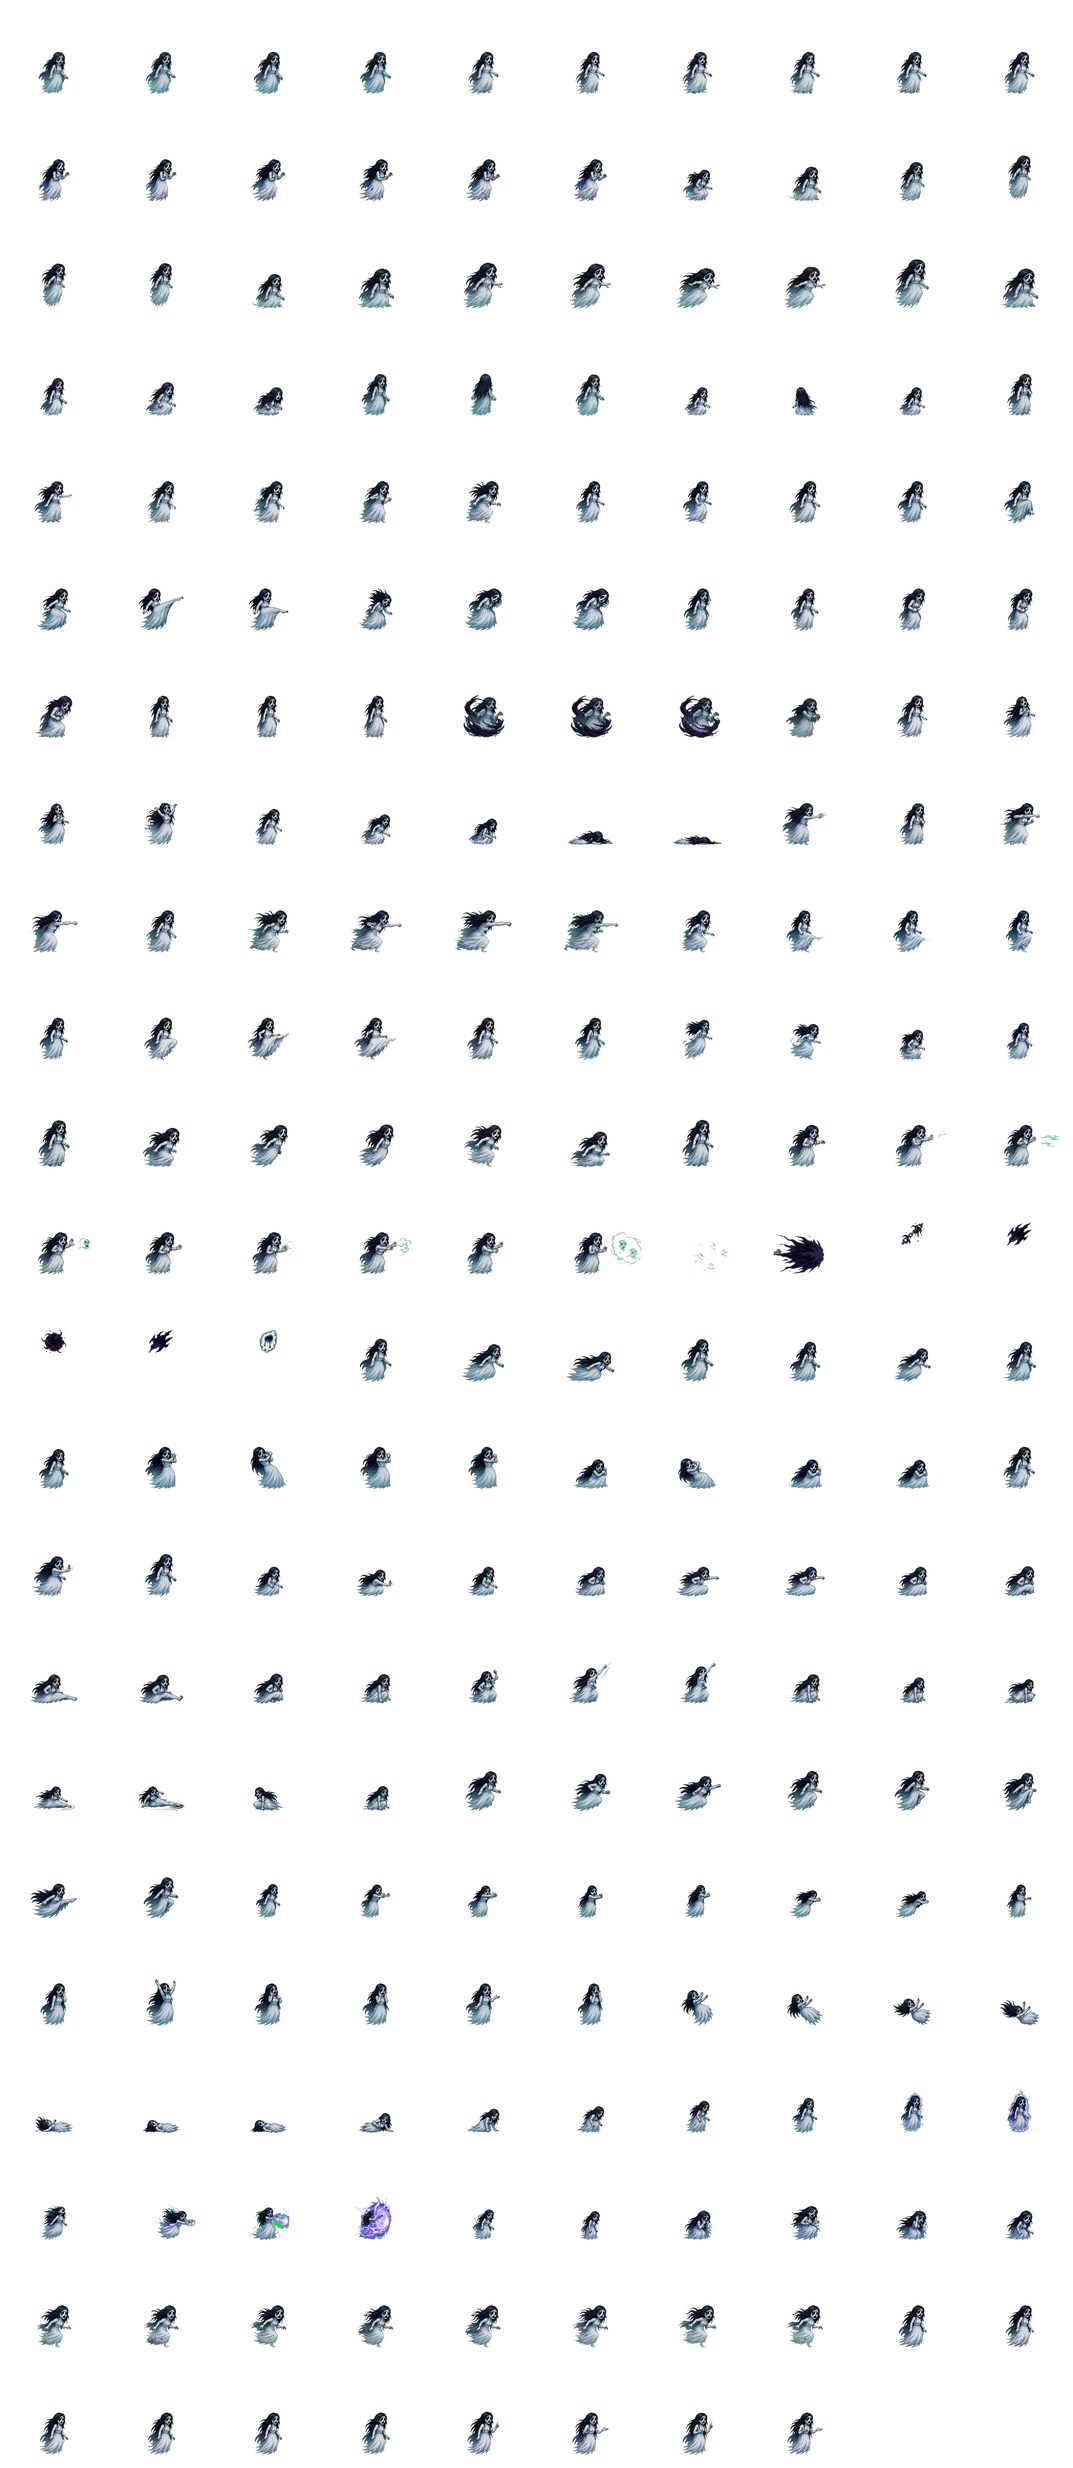
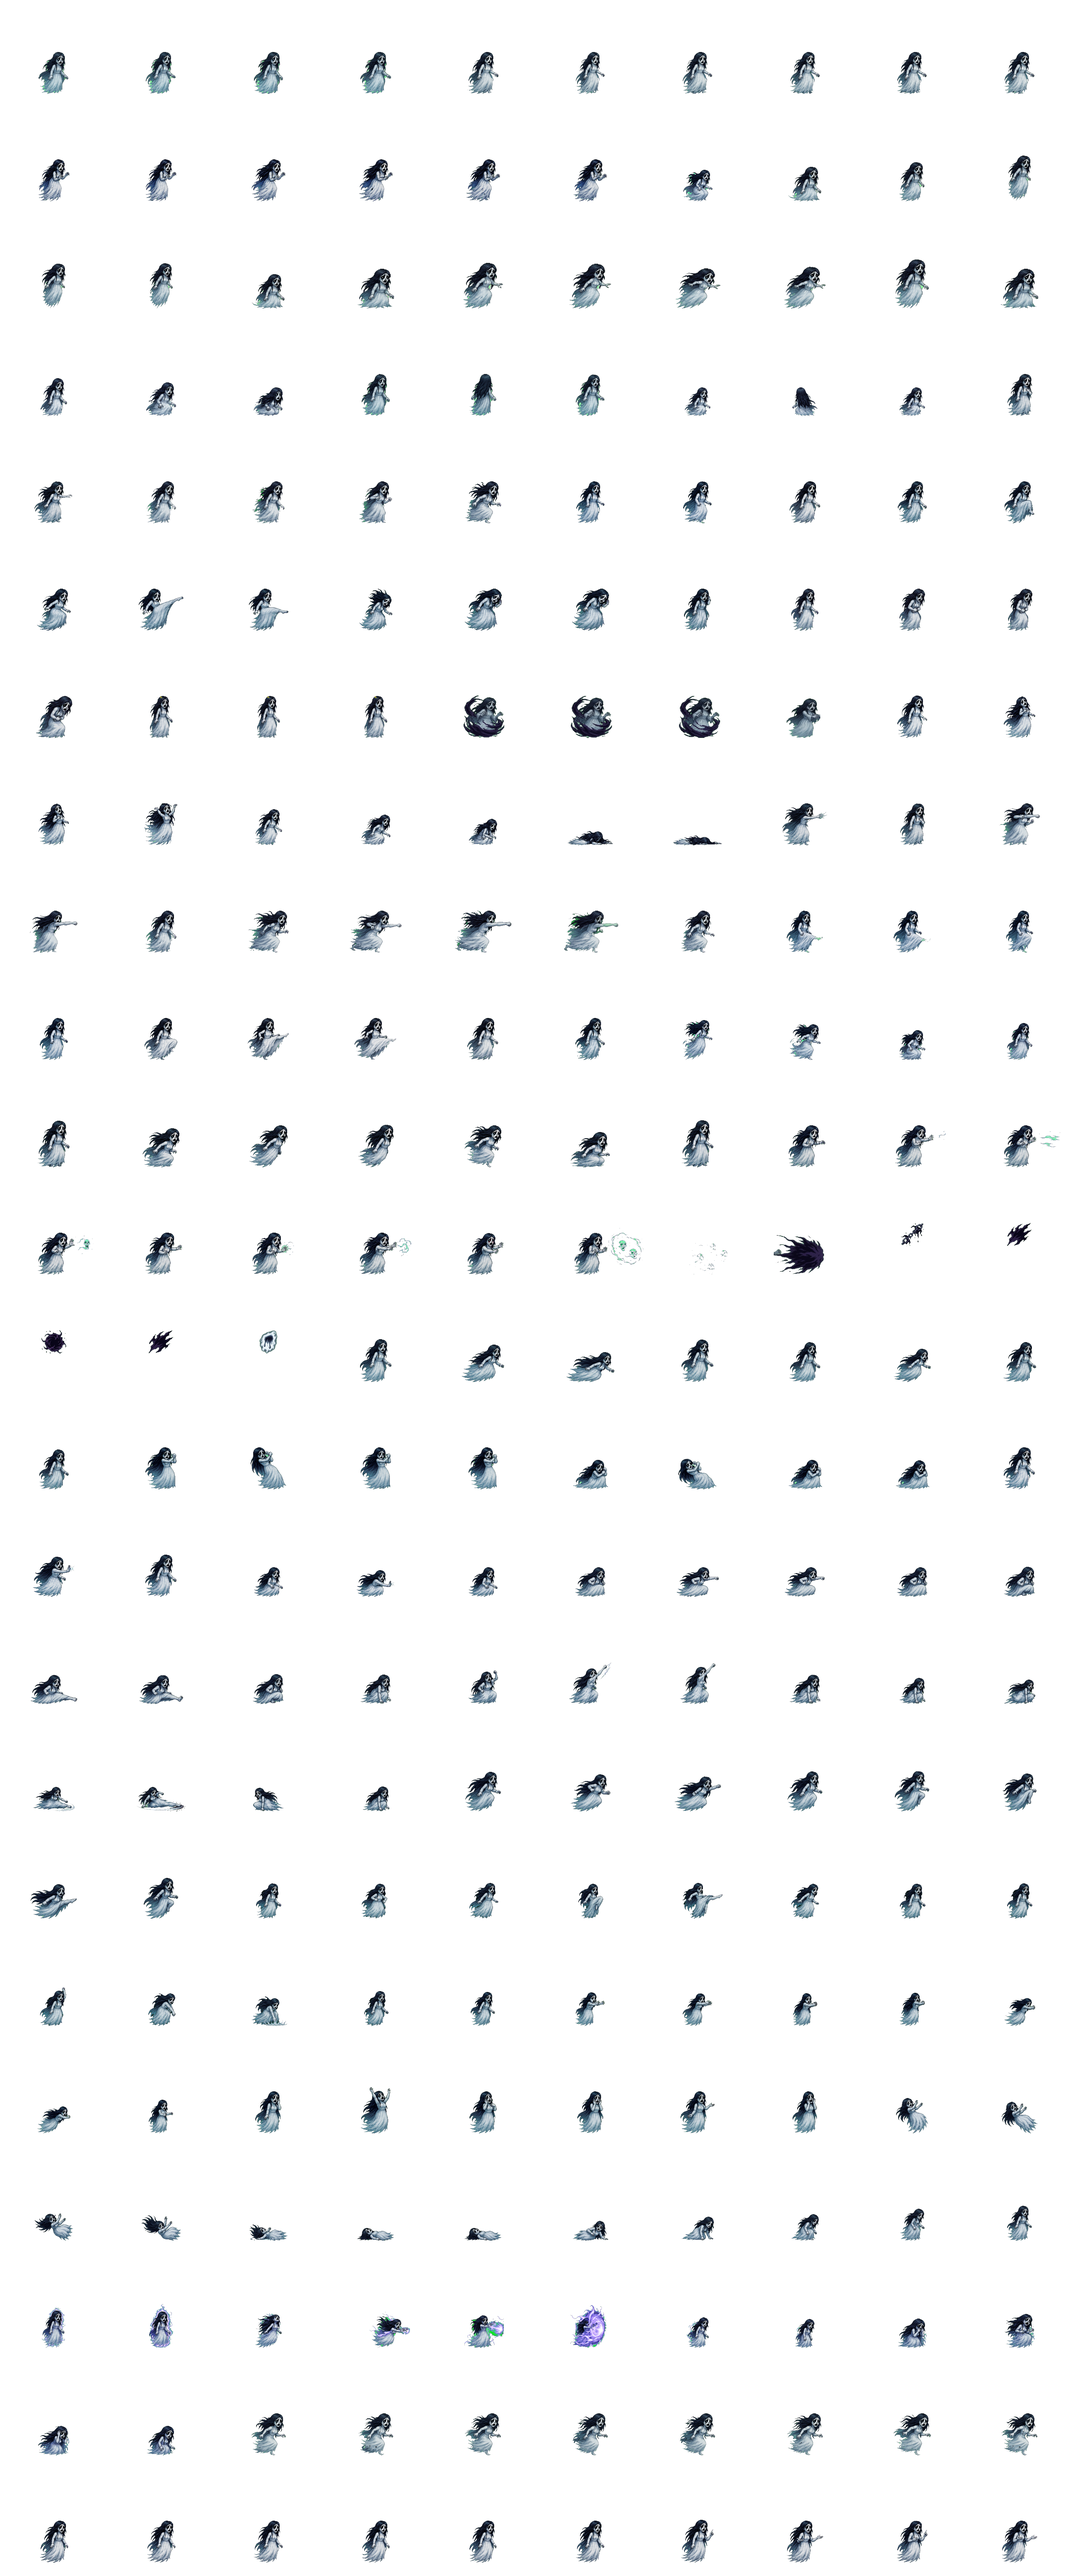
SF: La Llorona ya tiene PATADA LARGA + OVERHEAD propios (adios placeholder ALPHA)
El dueno entrego el arte en chroma; se recorto (7 longKick + 5 overhead) e importo
al GEN canonico (fullcombat, 240 frames) con sf_import_fixed_pose.py y se re-empaco
solo a La Llorona. lallorona.json 228->240 frames; git status solo lallorona.
Con esto NINGUN peleador dispara ya el 3er atlas ALPHA -> crash P0 por OOM resuelto
de raiz + menos RAM en gama baja (el blindaje de Fable se queda como red).

Sheet fuente movido a tools/_para_corregir/..._IMPORTADO.png. Pipeline reproducible
documentado en SF/IMPORT_lallorona_patada-overhead_2026-07-22.md. Comentario del
placeholder ALPHA y _SESION_ACTUAL actualizados.

diff --git a/PolitecnicoOpenWorld/app/src/main/java/ovh/gabrielhuav/pow/features/streetfighter/ui/StreetFighterScreen.kt b/PolitecnicoOpenWorld/app/src/main/java/ovh/gabrielhuav/pow/features/streetfighter/ui/StreetFighterScreen.kt
@@ -328,10 +328,11 @@ fun StreetFighterScreen(
                         ?.let { put(id.spriteAsset.substringAfterLast('/'), it) }
                 }
             }
-            // PLACEHOLDER ALPHA (hoy solo La Llorona: sin PATADA LARGA/OVERHEAD). Se pinta
-            // como SILUETA NEGRA → media resolución NO se nota y evita el pico de RAM del
-            // 3er atlas (~63 → ~16 MB en gama alta, ~4 MB en baja): principal sospechoso
-            // del crash por OOM de sus peleas. Lleva SU escala en sheetScale.
+            // PLACEHOLDER ALPHA (2026-07-22: La Llorona YA trae PATADA LARGA/OVERHEAD propios, así
+            // que hoy NINGÚN peleador dispara este 3er atlas; la red se queda por si acaso). Se pinta
+            // como SILUETA NEGRA → media resolución NO se nota y evitaba el pico de RAM del 3er atlas
+            // (~63 → ~16 MB en gama alta, ~4 MB en baja), que era el sospechoso del crash por OOM.
+            // Lleva SU escala en sheetScale.
             val needyId = fightIds.firstOrNull { id ->
                 val d = SfFrameCatalog.load(context, id)
                 SF_NEW_MOVE_STATES.any { d.animations[it.jsKey].isNullOrEmpty() }

diff --git a/PolitecnicoOpenWorld/README for IAS/SF/IMPORT_lallorona_patada-overhead_2026-07-22.md b/PolitecnicoOpenWorld/README for IAS/SF/IMPORT_lallorona_patada-overhead_2026-07-22.md
@@ -1,0 +1,41 @@
+# Importación de PATADA LARGA + OVERHEAD de La Llorona (2026-07-22)
+
+**Qué:** La Llorona era la única peleadora sin `longKick` ni `overhead` propios → usaba el
+placeholder **ALPHA** (silueta del estudiante), que sumaba un **3er atlas** en RAM y era el
+sospechoso del **crash P0 por OOM** de sus peleas. El dueño entregó el arte en chroma; se importó
+y ahora tiene ambos movimientos. **Con esto ya no dispara el atlas ALPHA** (verificado: 0
+movimientos nuevos ausentes) → cierra el crash de raíz y baja el pico de memoria en gama baja.
+
+**Fuente:** `tools/_para_corregir/lallorona_patada-larga_overhead_croma_IMPORTADO.png`
+(hoja chroma verde, 2 filas rotuladas: `PATADA LARGA` = 7 poses, `OVERHEAD` = 5 poses).
+
+## Pipeline (reproducible)
+
+Rutas: el GEN canónico de La Llorona (el que coincide con el atlas: 228 → 240 frames) es
+`../newSFAssets/GEN_prankedy_senortienda_rey_paparazzi_fullcombat_intermedio/lallorona`
+(FUERA del repo). El packer nombra `longKick` de `long-kick-1..7` y `overhead` de `overhead-1..5`
+(ver `tools/pack_sf_character.py:70-71`).
+
+1. **Recorte del sheet** en 12 poses chroma individuales (una por archivo), excluyendo los
+   rótulos amarillos: detección de blobs de figura con `scipy.ndimage.label` (figura = no-verde y
+   no-amarillo), 2 filas por y-centro, orden izquierda→derecha, recorte con padding. Salida:
+   `long-kick-1..7.png`, `overhead-1..5.png`.
+2. **Importar cada pose** al GEN (centra pies en y=224 y usa `_scale.json` para escala uniforme):
+   ```
+   python tools/sf_import_fixed_pose.py lallorona <pose>.png <clave>
+   # claves: long-kick-1..7, overhead-1..5
+   ```
+3. **Re-empacar SOLO La Llorona:**
+   ```
+   python tools/pack_sf_character.py lallorona LaLlorona --gen ../newSFAssets/GEN_prankedy_senortienda_rey_paparazzi_fullcombat_intermedio
+   ```
+   Regenera `assets/STREETFIGHTER/DATA/lallorona.json` + `IMAGES/LaLlorona.webp`.
+
+## Verificación (hecha)
+- `lallorona.json`: 240 frames (antes 228); `longKick` 8 (7+transición), `overhead` 6 (5+transición).
+- `git status`: SOLO `lallorona.json` + `LaLlorona.webp` (nada más re-empacado).
+- Visual: frames consistentes con su estilo (pies alineados, escala uniforme).
+- Falta: **verlo en dispositivo** (la pelea de La Llorona y IA vs IA con ella).
+
+⚠ Si se re-empaca de nuevo, usar SIEMPRE ese `--gen` (el fullcombat de 240 frames). Otro GEN
+(p.ej. `GEN_lallorona_intermedio`, 123 frames) produciría un atlas incompleto.

diff --git a/PolitecnicoOpenWorld/README for IAS/_SESION_ACTUAL.md b/PolitecnicoOpenWorld/README for IAS/_SESION_ACTUAL.md
@@ -83,8 +83,11 @@ quedaron commiteados; detalle en `SF/DISENO_ARCADE_SF_POW.md` §2026-07-22 y 00_
 
 ### 🧪 QUÉ PROBAR EN DISPOSITIVO (checklist del dueño)
 
-- **La Llorona:** seleccionarla, pelear contra ella e IA vs IA con ella en ambos lados (si
-  aún crashea, el logcat dirá el punto exacto — ya no debería ser el camino ALPHA).
+- **La Llorona:** 🆕 (2026-07-22, Opus) se importó su arte de **PATADA LARGA + OVERHEAD** (el
+  dueño la entregó en chroma), así que **ya NO carga el atlas ALPHA** (0 movimientos sin arte) →
+  crash resuelto de raíz + menos RAM. Ver `SF/IMPORT_lallorona_patada-overhead_2026-07-22.md`.
+  Probar: seleccionarla, pelear contra ella e IA vs IA, y ver que su patada larga/overhead se
+  vean bien. (El blindaje de Fable —decode en runCatching— se queda como red.)
 - **STUN:** recibir ~5-6 golpes seguidos sin bloquear → mareo (estrellitas, congelado 2 s);
   pegarle al mareado lo despierta. En MULTIPLAYER: que P1 y P2 vean al MISMO aturdido.
 - **Metamorfosis:** round 1 al 25% → Yoalli con vida llena; rounds 2+ sigue Yoalli y sin
